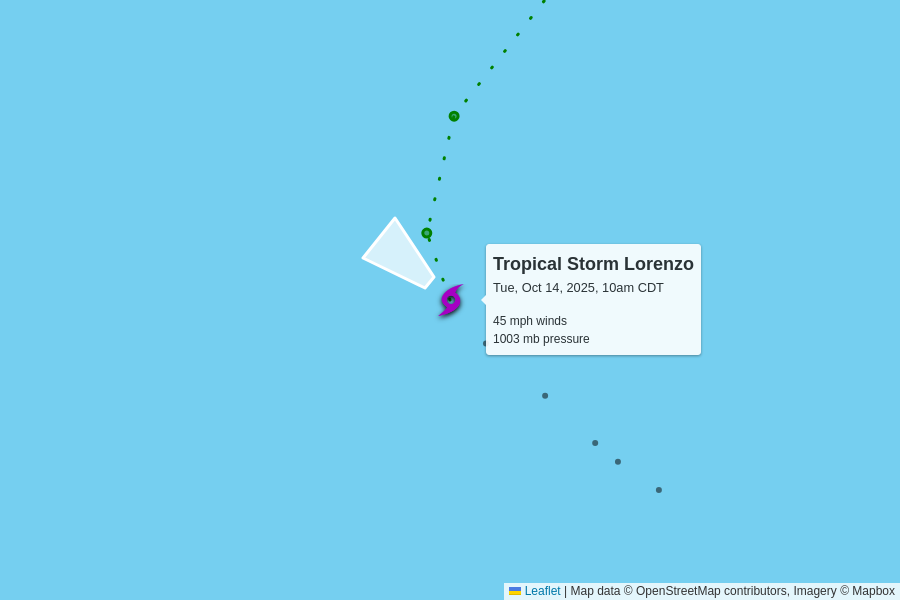
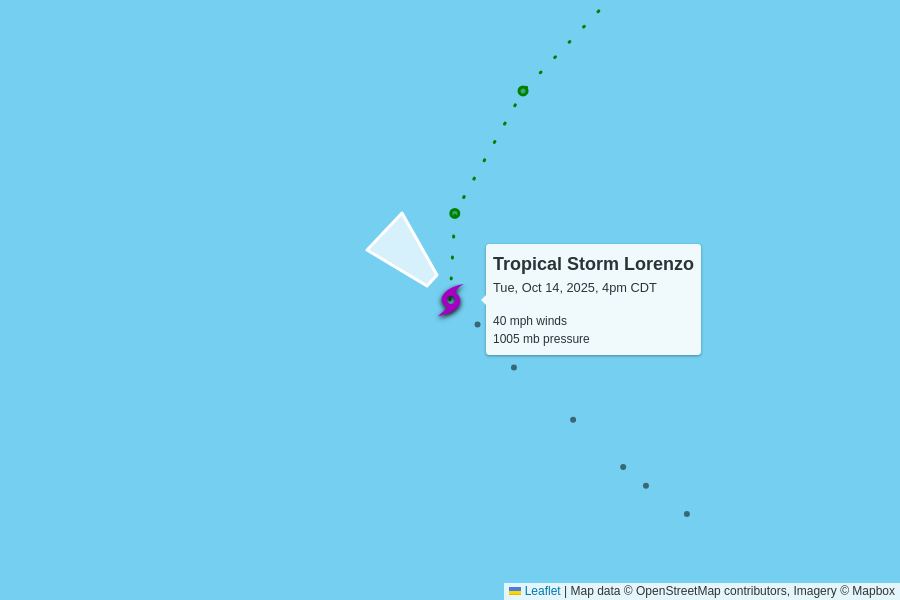
automatic update

diff --git a/docs/index.html b/docs/index.html
@@ -102,7 +102,7 @@
         <td colspan="6" class="storm category-0" >
           <h2>
             Tropical Storm Lorenzo
-            <p class="updated">last updated <span data-time>2025-10-14T15:00:00.000Z</span></p>
+            <p class="updated">last updated <span data-time>2025-10-14T21:00:00.000Z</span></p>
           </h2>
         </td>
       </tr>
@@ -117,12 +117,12 @@
       </tr>
       <tr>
         <td class="spacer"></td>
-        <td>45 mph<br>-15 mph since last update</td>
-        <td>1003 mb<br>+3 mb since last update</td>
+        <td>40 mph<br>-5 mph since last update</td>
+        <td>1005 mb<br>+2 mb since last update</td>
         <td>
-          15 mph to the northwest
+          12 mph to the northwest
           <br/>
-          <span style="display: inline-block; font-size: 1.5em; transform: rotate(310deg);">↑</span>
+          <span style="display: inline-block; font-size: 1.5em; transform: rotate(315deg);">↑</span>
         </td>
         <td><a href="https://raw.githubusercontent.com/mgwalker/atlantic-hurricanes/main/data/csv/AL122025.csv">AL122025.csv</a></td>
         <td><a href="https://www.nhc.noaa.gov/archive/2025/LORENZO.shtml?">NHC advisories</a></td>
